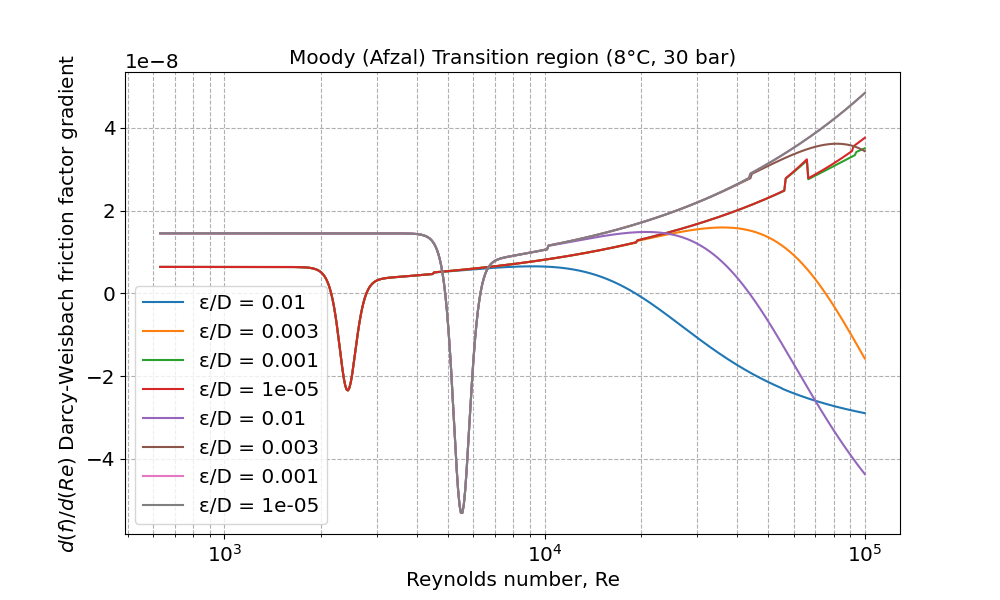
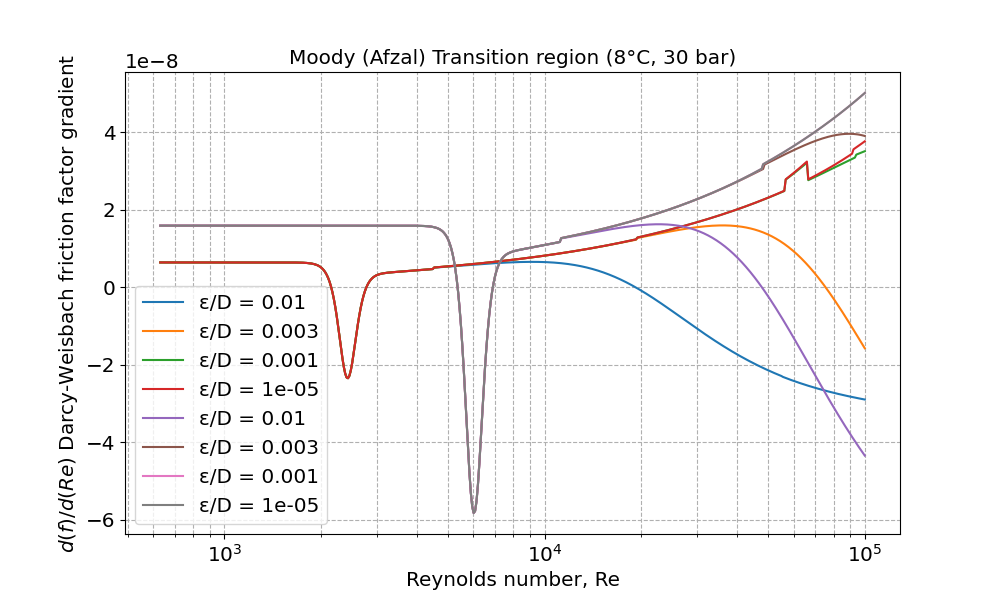
Set default mixture rule to Wilke

diff --git a/moody.py b/moody.py
@@ -10,7 +10,7 @@ import warnings
 
 from scipy.interpolate import interp1d
 from peng_utils import memoize
-from peng import get_v_ratio, get_Δp_ratio_br, get_ϱ_ratio, get_μ_ratio, get_viscosity, Atm, T273
+from peng import get_v_ratio, get_Δp_ratio_br, get_ϱ_ratio, get_μ_ratio, get_viscosity, Atm, T273, set_mix_rule
 
 # We memoize some functions so that they do not get repeadtedly called with
 # the same arguments. Yet still be retain a more obvius way of writing the program.
@@ -25,6 +25,8 @@ T8C = T273 + 3 # 3 degrees C
 T = T8C # default temp
 P = Atm + 40/1000 # 40 mbar default pressure
 
+# Set the default mixture rule for viscosities in a mixed gas
+visc_f = set_mix_rule()
 
 print(f"Intermittent-Blasius factor: {ib_factor:.3f}")
 
